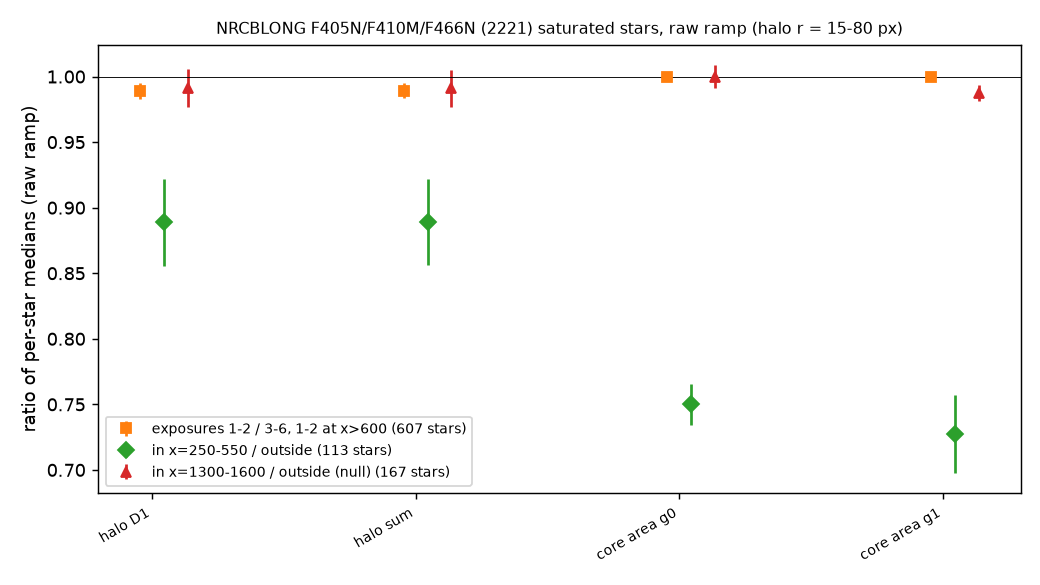
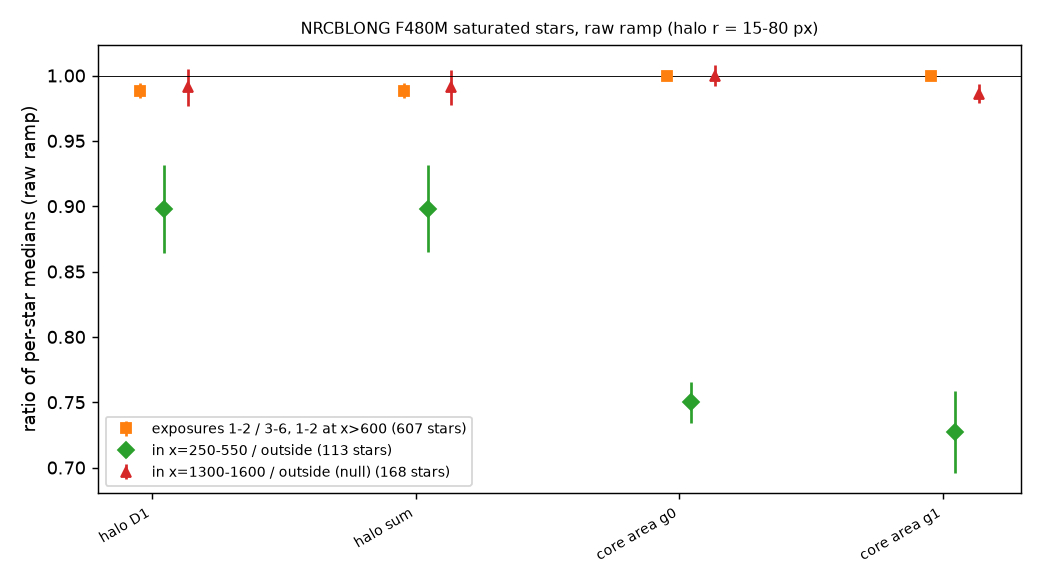
satstar_perexp_halo: rerun 2221 raw ramp with its own saturation reffile (0098) (#1062)

diff --git a/scripts/analysis/satstar_perexp_halo/README.md b/scripts/analysis/satstar_perexp_halo/README.md
@@ -91,9 +91,9 @@ comparison.
     - Null band at x = 1300–1600: 0.97–1.00.
     - With the 10678 pattern (+385 px in x per step) a star is in the band almost only in exposures 1–2. The control, stars whose exposures 1–2 are *outside* the band, (`control`) reads 0.99–1.03 for the halo and 0.97–0.99 for the area, so this is a column effect and not an exposure-order one.
   - **Program 2221 (F405N / F410M / F466N, 24-point FULLBOX, 2022):** 96 frames, cores ≥20 px.
-    - Halo 0.89 ± 0.03 (73 stars); area 0.73–0.75 (113 stars); null band 0.99–1.00.
+    - Halo 0.90 ± 0.03 (73 stars); area 0.73–0.75 (113 stars); null band 0.99–1.00.
     - So the effect is present in other LW filters and epochs, weaker for these smaller cores.
-    - The area uses the 10678 threshold reffile (0115); 2221 frames name 0098. The in/out ratio uses one threshold map for both, so only a spatial difference between the two versions would matter.
+    - Measured with the threshold reffile the 2221 frames name, `jwst_nircam_saturation_0098`. A first run used the 10678 file (0115); the two NRCBLONG maps (all 96 frames are NRCBLONG) differ on 0.16% of pixels, evenly in and out of the band (0098/0115 = 1.0000 in every 128-px column bin). Rerun with 0098, every frame finds the same number of saturated cores, and one more null-band star passes the core-area cut (167 → 168). The halo moves 0.889 → 0.898 (0.3σ); the area, null band and exposure-order control are unchanged.
   - **The deficit grows along the ramp** in both the halo (0.81 → 0.75) and the area (0.61 → 0.54). Charge accumulation, not photon arrival, is implicated.
   - **The flat field** is only ~5% low here (rate/cal), so raw 0.78–0.81 corresponds to the ~0.83–0.85 seen in `cal`.
 - **Not optical.** Unsaturated PSF wings at 4–15 px are flat in x (±4%).
@@ -106,7 +106,7 @@ comparison.
   - A full-height column stripe: in the 256-px map every row of the x = 256–512 column reads −0.09 to −0.26. It is deepest at mid-height (−0.23 to −0.26 for y = 256–1792) and weaker at the top and bottom edges (−0.15, −0.09). At y < 512 it spreads to x = 512–768 (−0.07, −0.12). Every other cell is within ±0.07, apart from the x < 256, y < 256 corner (+0.11).
   - Stable in time: −0.18 to −0.23 in each date quartile of 2026-09-11 to 09-21 (out of band +0.01). It is also in the 2022 program 2221 (step 8), so it has persisted for ~4 years.
   - The open mechanism is therefore a detector property of the x ≈ 250–550 columns that acts only at very high illumination: a saturated core is smaller and its halo fainter there from the first read, while unsaturated stars are flat.
-- **LINEARITY reffile:** not inspected; CRDS is unreachable from this environment. The raw-ramp result makes it moot, because the deficit exists before linearity is applied.
+- **LINEARITY reffile:** not inspected. The raw-ramp result makes it moot, because the deficit exists before linearity is applied.
 
 ## Effect on the production saturated-star fluxes
 
